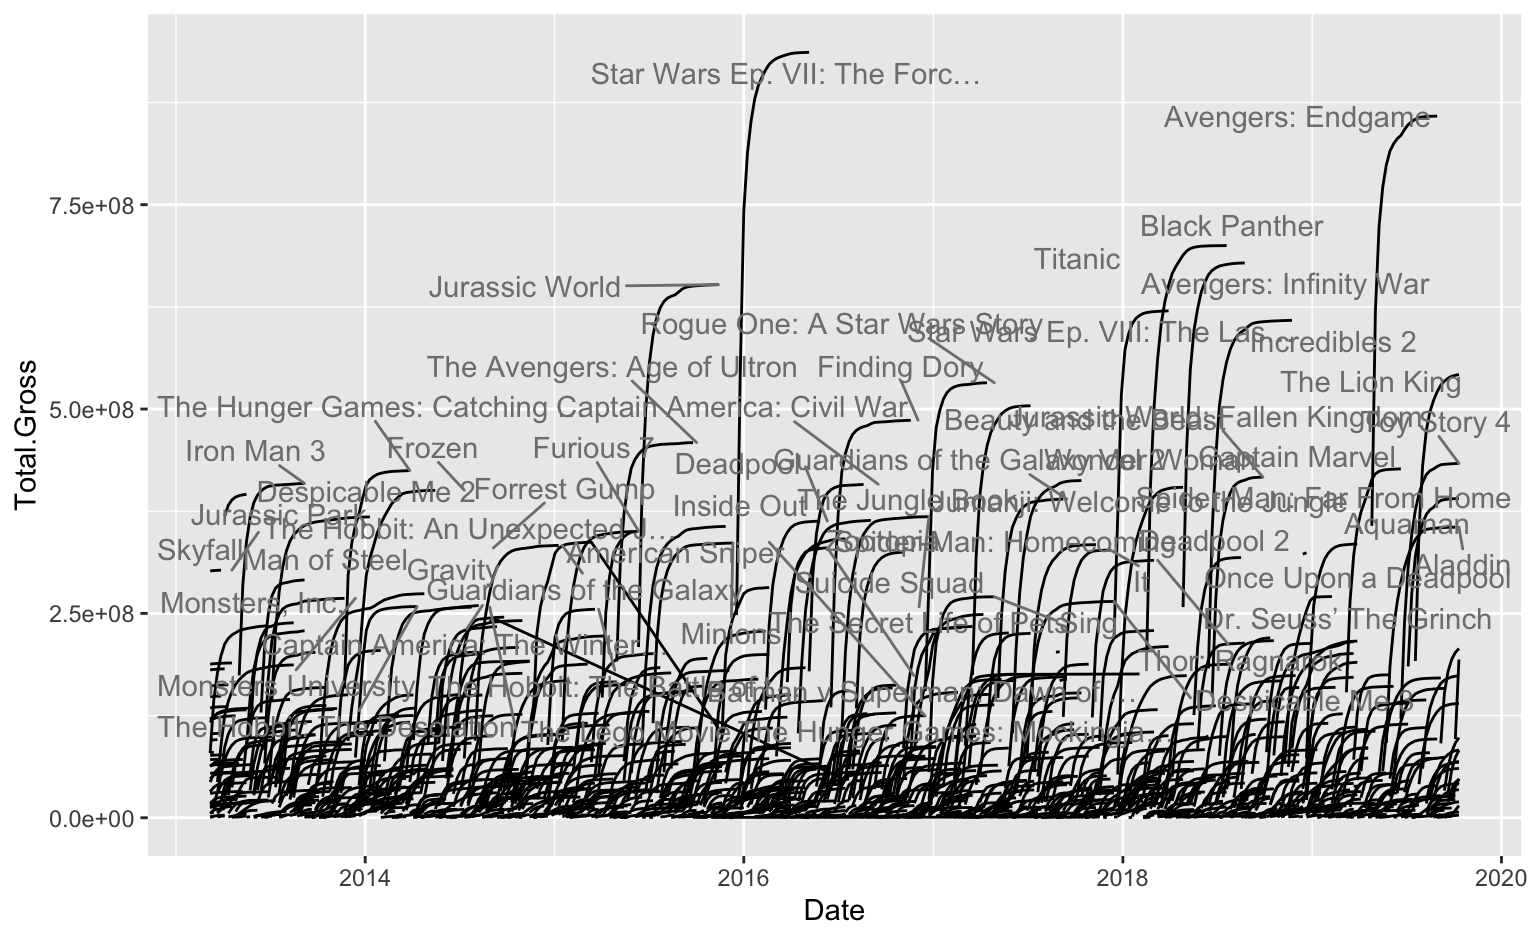
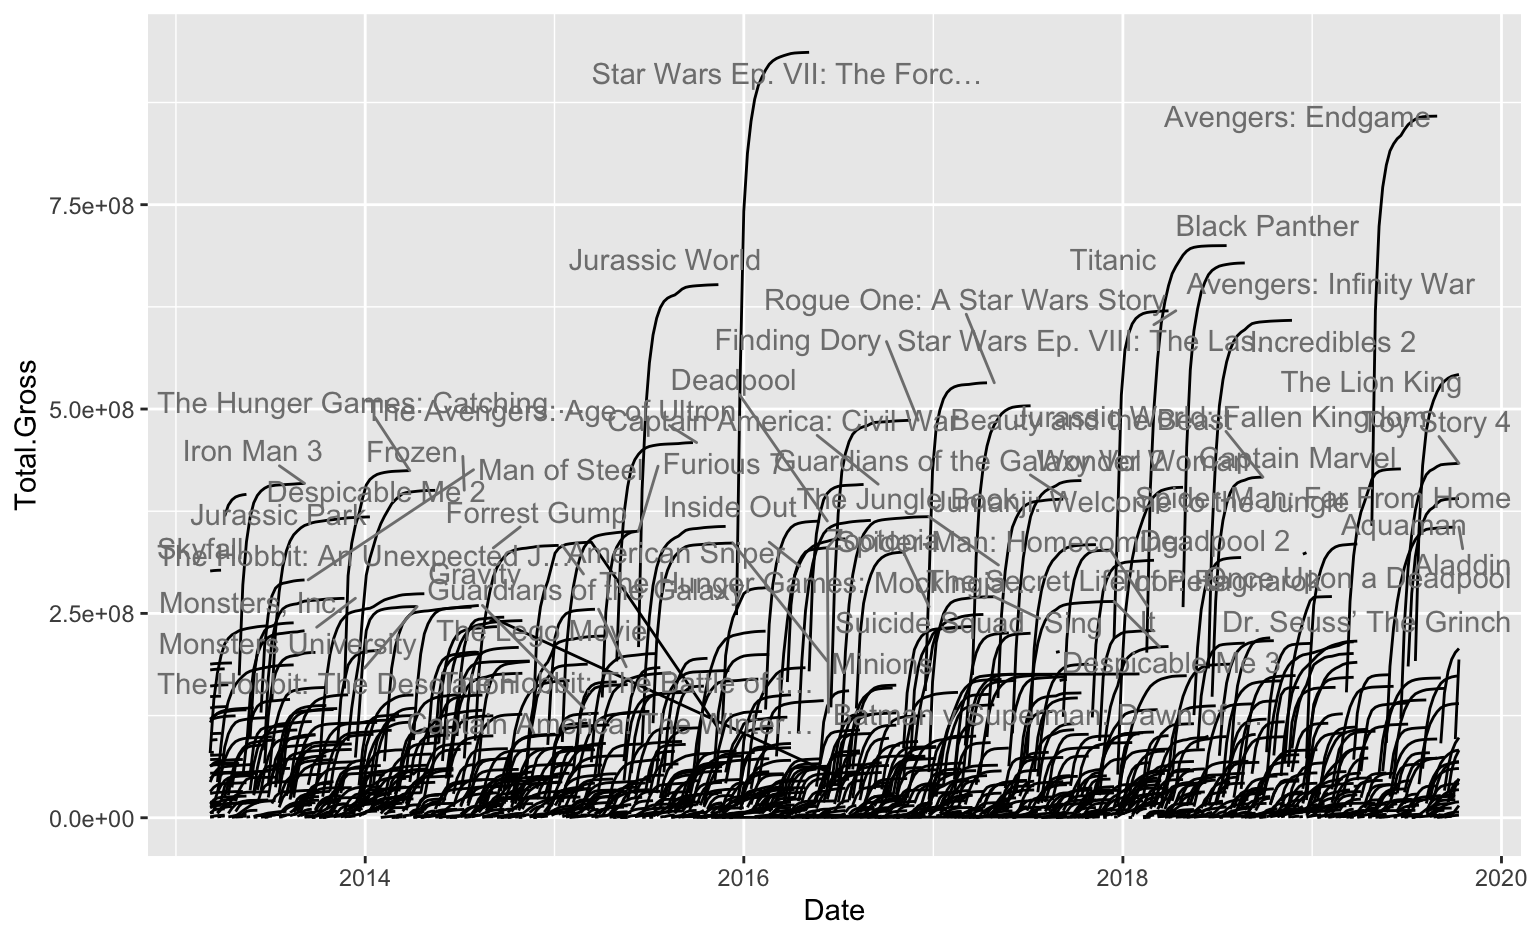
update

diff --git a/04_date-time-space/02_time-series.html b/04_date-time-space/02_time-series.html
@@ -157,24 +157,15 @@
 <li><span style="color:white">Plot separate lines for each of the years, i.e. put <code>month</code> on the x-axis and <code>ozone</code> on the y-axis for the same location. Is there a seasonal pattern apparent? </span></li>
 <li><span style="color:white">Pick a location with x in 1:10 and y in 7:10. Plot temperature over time. Comment on the result. </span></li>
 </ul>
-<div class="sourceCode" id="cb6"><pre class="sourceCode r"><code class="sourceCode r"><a class="sourceLine" id="cb6-1" data-line-number="1">nasa <span class="op">%&gt;%</span><span class="st"> </span><span class="kw">filter</span>(x <span class="op">==</span><span class="st"> </span><span class="dv">1</span>, y <span class="op">%in%</span><span class="st"> </span><span class="kw">c</span>(<span class="dv">1</span>, <span class="dv">10</span>)) <span class="op">%&gt;%</span></a>
-<a class="sourceLine" id="cb6-2" data-line-number="2"><span class="st">  </span><span class="kw">ggplot</span>(<span class="kw">aes</span>(<span class="dt">x =</span> time, <span class="dt">y =</span> ozone, <span class="dt">group =</span> id, <span class="dt">color =</span> id)) <span class="op">+</span><span class="st"> </span><span class="kw">geom_line</span>()</a></code></pre></div>
-<p><img src="02_time-series_files/figure-revealjs/unnamed-chunk-5-1.png" width="768" /></p>
-<div class="sourceCode" id="cb7"><pre class="sourceCode r"><code class="sourceCode r"><a class="sourceLine" id="cb7-1" data-line-number="1">nasa <span class="op">%&gt;%</span><span class="st"> </span><span class="kw">filter</span>(x <span class="op">==</span><span class="st"> </span><span class="dv">1</span>, y <span class="op">==</span><span class="st"> </span><span class="dv">1</span>) <span class="op">%&gt;%</span></a>
-<a class="sourceLine" id="cb7-2" data-line-number="2"><span class="st">  </span><span class="kw">ggplot</span>(<span class="kw">aes</span>(<span class="dt">x =</span> <span class="kw">month</span>(date, <span class="dt">label =</span> <span class="ot">TRUE</span>), <span class="dt">y =</span> ozone, <span class="dt">group =</span> <span class="kw">year</span>(date), <span class="dt">color =</span> <span class="kw">year</span>(date))) <span class="op">+</span><span class="st"> </span><span class="kw">geom_line</span>()</a></code></pre></div>
-<p><img src="02_time-series_files/figure-revealjs/unnamed-chunk-5-2.png" width="768" /></p>
-<div class="sourceCode" id="cb8"><pre class="sourceCode r"><code class="sourceCode r"><a class="sourceLine" id="cb8-1" data-line-number="1">nasa <span class="op">%&gt;%</span><span class="st"> </span><span class="kw">filter</span>(x <span class="op">%in%</span><span class="st"> </span><span class="kw">c</span>(<span class="dv">1</span> <span class="op">:</span><span class="st"> </span><span class="dv">10</span>), y <span class="op">%in%</span><span class="st"> </span><span class="kw">c</span>(<span class="dv">7</span> <span class="op">:</span><span class="st"> </span><span class="dv">10</span>)) <span class="op">%&gt;%</span></a>
-<a class="sourceLine" id="cb8-2" data-line-number="2"><span class="st">  </span><span class="kw">ggplot</span>(<span class="kw">aes</span>(<span class="dt">x =</span> time, <span class="dt">y =</span> temperature, <span class="dt">group =</span> id, <span class="dt">color =</span> id)) <span class="op">+</span><span class="st"> </span><span class="kw">geom_line</span>()</a></code></pre></div>
-<p><img src="02_time-series_files/figure-revealjs/unnamed-chunk-5-3.png" width="768" /></p>
 </section>
 <section id="box-office-gross" class="slide level2">
 <h2>Box office gross</h2>
 <ul>
 <li>variables encoded as dates and times work with <code>ggplot2</code></li>
 </ul>
-<div class="sourceCode" id="cb9"><pre class="sourceCode r"><code class="sourceCode r"><a class="sourceLine" id="cb9-1" data-line-number="1"><span class="kw">data</span>(box, <span class="dt">package=</span><span class="st">&quot;classdata&quot;</span>)</a>
-<a class="sourceLine" id="cb9-2" data-line-number="2">box <span class="op">%&gt;%</span><span class="st"> </span><span class="kw">filter</span>(Movie <span class="op">==</span><span class="st"> &quot;The Avengers: Age of Ultron&quot;</span>) <span class="op">%&gt;%</span></a>
-<a class="sourceLine" id="cb9-3" data-line-number="3"><span class="st">  </span><span class="kw">ggplot</span>(<span class="kw">aes</span>(<span class="dt">x =</span> Date, <span class="dt">y =</span> Total.Gross)) <span class="op">+</span><span class="st"> </span><span class="kw">geom_line</span>()</a></code></pre></div>
+<div class="sourceCode" id="cb6"><pre class="sourceCode r"><code class="sourceCode r"><a class="sourceLine" id="cb6-1" data-line-number="1"><span class="kw">data</span>(box, <span class="dt">package=</span><span class="st">&quot;classdata&quot;</span>)</a>
+<a class="sourceLine" id="cb6-2" data-line-number="2">box <span class="op">%&gt;%</span><span class="st"> </span><span class="kw">filter</span>(Movie <span class="op">==</span><span class="st"> &quot;The Avengers: Age of Ultron&quot;</span>) <span class="op">%&gt;%</span></a>
+<a class="sourceLine" id="cb6-3" data-line-number="3"><span class="st">  </span><span class="kw">ggplot</span>(<span class="kw">aes</span>(<span class="dt">x =</span> Date, <span class="dt">y =</span> Total.Gross)) <span class="op">+</span><span class="st"> </span><span class="kw">geom_line</span>()</a></code></pre></div>
 </section>
 <section id="box-office-gross-1" class="slide level2">
 <h2>Box office gross</h2>
@@ -193,9 +184,9 @@
 <ul>
 <li>We would like to label some of the highest grossing movies</li>
 </ul>
-<div class="sourceCode" id="cb10"><pre class="sourceCode r"><code class="sourceCode r"><a class="sourceLine" id="cb10-1" data-line-number="1">box <span class="op">%&gt;%</span><span class="st"> </span><span class="kw">filter</span>(Thtrs. <span class="op">&gt;</span><span class="st"> </span><span class="dv">100</span>) <span class="op">%&gt;%</span></a>
-<a class="sourceLine" id="cb10-2" data-line-number="2"><span class="st">  </span><span class="kw">ggplot</span>(<span class="kw">aes</span>(<span class="dt">x =</span> Date, <span class="dt">y =</span> <span class="kw">log</span>(Total.Gross), </a>
-<a class="sourceLine" id="cb10-3" data-line-number="3">             <span class="dt">group =</span> <span class="kw">interaction</span>(Movie, Distributor))) <span class="op">+</span><span class="st"> </span><span class="kw">geom_line</span>()</a></code></pre></div>
+<div class="sourceCode" id="cb7"><pre class="sourceCode r"><code class="sourceCode r"><a class="sourceLine" id="cb7-1" data-line-number="1">box <span class="op">%&gt;%</span><span class="st"> </span><span class="kw">filter</span>(Thtrs. <span class="op">&gt;</span><span class="st"> </span><span class="dv">100</span>) <span class="op">%&gt;%</span></a>
+<a class="sourceLine" id="cb7-2" data-line-number="2"><span class="st">  </span><span class="kw">ggplot</span>(<span class="kw">aes</span>(<span class="dt">x =</span> Date, <span class="dt">y =</span> <span class="kw">log</span>(Total.Gross), </a>
+<a class="sourceLine" id="cb7-3" data-line-number="3">             <span class="dt">group =</span> <span class="kw">interaction</span>(Movie, Distributor))) <span class="op">+</span><span class="st"> </span><span class="kw">geom_line</span>()</a></code></pre></div>
 </section>
 <section id="box-office-gross-2-1" class="slide level2">
 <h2>Box office gross (2)</h2>
@@ -206,19 +197,19 @@
 <ul>
 <li><code>geom_text</code> needs aesthetics <code>x</code>, <code>y</code> and <code>label</code></li>
 </ul>
-<div class="sourceCode" id="cb11"><pre class="sourceCode r"><code class="sourceCode r"><a class="sourceLine" id="cb11-1" data-line-number="1">box_summary &lt;-<span class="st"> </span>box <span class="op">%&gt;%</span><span class="st"> </span><span class="kw">group_by</span>(Movie, Distributor) <span class="op">%&gt;%</span></a>
-<a class="sourceLine" id="cb11-2" data-line-number="2"><span class="st">  </span><span class="kw">summarize</span>(</a>
-<a class="sourceLine" id="cb11-3" data-line-number="3">    <span class="dt">Date =</span> <span class="kw">max</span>(Date),</a>
-<a class="sourceLine" id="cb11-4" data-line-number="4">    <span class="dt">Week =</span> <span class="kw">max</span>(Week),</a>
-<a class="sourceLine" id="cb11-5" data-line-number="5">    <span class="dt">Max.Gross =</span> <span class="kw">max</span>(Total.Gross, <span class="dt">na.rm=</span><span class="ot">TRUE</span>),</a>
-<a class="sourceLine" id="cb11-6" data-line-number="6">    <span class="dt">First.Gross =</span> <span class="kw">min</span>(Total.Gross, <span class="dt">na.rm=</span><span class="ot">TRUE</span>)</a>
-<a class="sourceLine" id="cb11-7" data-line-number="7">  )</a>
-<a class="sourceLine" id="cb11-8" data-line-number="8"></a>
-<a class="sourceLine" id="cb11-9" data-line-number="9">box <span class="op">%&gt;%</span><span class="st"> </span><span class="kw">filter</span>(Thtrs. <span class="op">&gt;</span><span class="st"> </span><span class="dv">100</span>) <span class="op">%&gt;%</span></a>
-<a class="sourceLine" id="cb11-10" data-line-number="10"><span class="st">  </span><span class="kw">ggplot</span>(<span class="kw">aes</span>(<span class="dt">x =</span> Date, <span class="dt">y =</span> Total.Gross, </a>
-<a class="sourceLine" id="cb11-11" data-line-number="11">             <span class="dt">group =</span> <span class="kw">interaction</span>(Movie, Distributor))) <span class="op">+</span><span class="st"> </span><span class="kw">geom_line</span>() <span class="op">+</span></a>
-<a class="sourceLine" id="cb11-12" data-line-number="12"><span class="st">  </span><span class="kw">geom_text</span>(<span class="kw">aes</span>(<span class="dt">x =</span> Date, <span class="dt">y =</span> Max.Gross, <span class="dt">label =</span> Movie), </a>
-<a class="sourceLine" id="cb11-13" data-line-number="13">            <span class="dt">data =</span> box_summary <span class="op">%&gt;%</span><span class="st"> </span><span class="kw">filter</span>(Max.Gross <span class="op">&gt;</span><span class="st"> </span><span class="fl">2.5e8</span>))</a></code></pre></div>
+<div class="sourceCode" id="cb8"><pre class="sourceCode r"><code class="sourceCode r"><a class="sourceLine" id="cb8-1" data-line-number="1">box_summary &lt;-<span class="st"> </span>box <span class="op">%&gt;%</span><span class="st"> </span><span class="kw">group_by</span>(Movie, Distributor) <span class="op">%&gt;%</span></a>
+<a class="sourceLine" id="cb8-2" data-line-number="2"><span class="st">  </span><span class="kw">summarize</span>(</a>
+<a class="sourceLine" id="cb8-3" data-line-number="3">    <span class="dt">Date =</span> <span class="kw">max</span>(Date),</a>
+<a class="sourceLine" id="cb8-4" data-line-number="4">    <span class="dt">Week =</span> <span class="kw">max</span>(Week),</a>
+<a class="sourceLine" id="cb8-5" data-line-number="5">    <span class="dt">Max.Gross =</span> <span class="kw">max</span>(Total.Gross, <span class="dt">na.rm=</span><span class="ot">TRUE</span>),</a>
+<a class="sourceLine" id="cb8-6" data-line-number="6">    <span class="dt">First.Gross =</span> <span class="kw">min</span>(Total.Gross, <span class="dt">na.rm=</span><span class="ot">TRUE</span>)</a>
+<a class="sourceLine" id="cb8-7" data-line-number="7">  )</a>
+<a class="sourceLine" id="cb8-8" data-line-number="8"></a>
+<a class="sourceLine" id="cb8-9" data-line-number="9">box <span class="op">%&gt;%</span><span class="st"> </span><span class="kw">filter</span>(Thtrs. <span class="op">&gt;</span><span class="st"> </span><span class="dv">100</span>) <span class="op">%&gt;%</span></a>
+<a class="sourceLine" id="cb8-10" data-line-number="10"><span class="st">  </span><span class="kw">ggplot</span>(<span class="kw">aes</span>(<span class="dt">x =</span> Date, <span class="dt">y =</span> Total.Gross, </a>
+<a class="sourceLine" id="cb8-11" data-line-number="11">             <span class="dt">group =</span> <span class="kw">interaction</span>(Movie, Distributor))) <span class="op">+</span><span class="st"> </span><span class="kw">geom_line</span>() <span class="op">+</span></a>
+<a class="sourceLine" id="cb8-12" data-line-number="12"><span class="st">  </span><span class="kw">geom_text</span>(<span class="kw">aes</span>(<span class="dt">x =</span> Date, <span class="dt">y =</span> Max.Gross, <span class="dt">label =</span> Movie), </a>
+<a class="sourceLine" id="cb8-13" data-line-number="13">            <span class="dt">data =</span> box_summary <span class="op">%&gt;%</span><span class="st"> </span><span class="kw">filter</span>(Max.Gross <span class="op">&gt;</span><span class="st"> </span><span class="fl">2.5e8</span>))</a></code></pre></div>
 </section>
 <section id="labelling-1" class="slide level2">
 <h2>Labelling</h2>
@@ -229,11 +220,11 @@
 <ul>
 <li><code>geom_text_repel</code> from the <code>ggrepel</code> package</li>
 </ul>
-<div class="sourceCode" id="cb12"><pre class="sourceCode r"><code class="sourceCode r"><a class="sourceLine" id="cb12-1" data-line-number="1">box <span class="op">%&gt;%</span><span class="st"> </span><span class="kw">filter</span>(Thtrs. <span class="op">&gt;</span><span class="st"> </span><span class="dv">100</span>) <span class="op">%&gt;%</span></a>
-<a class="sourceLine" id="cb12-2" data-line-number="2"><span class="st">  </span><span class="kw">ggplot</span>(<span class="kw">aes</span>(<span class="dt">x =</span> Date, <span class="dt">y =</span> Total.Gross, </a>
-<a class="sourceLine" id="cb12-3" data-line-number="3">             <span class="dt">group =</span> <span class="kw">interaction</span>(Movie, Distributor))) <span class="op">+</span><span class="st"> </span><span class="kw">geom_line</span>() <span class="op">+</span></a>
-<a class="sourceLine" id="cb12-4" data-line-number="4"><span class="st">  </span>ggrepel<span class="op">::</span><span class="kw">geom_text_repel</span>(<span class="kw">aes</span>(<span class="dt">x =</span> Date, <span class="dt">y =</span> Max.Gross, <span class="dt">label =</span> Movie), </a>
-<a class="sourceLine" id="cb12-5" data-line-number="5">            <span class="dt">data =</span> box_summary <span class="op">%&gt;%</span><span class="st"> </span><span class="kw">filter</span>(Max.Gross <span class="op">&gt;</span><span class="st"> </span><span class="fl">2.5e8</span>), <span class="dt">colour=</span><span class="st">&quot;grey50&quot;</span>)</a></code></pre></div>
+<div class="sourceCode" id="cb9"><pre class="sourceCode r"><code class="sourceCode r"><a class="sourceLine" id="cb9-1" data-line-number="1">box <span class="op">%&gt;%</span><span class="st"> </span><span class="kw">filter</span>(Thtrs. <span class="op">&gt;</span><span class="st"> </span><span class="dv">100</span>) <span class="op">%&gt;%</span></a>
+<a class="sourceLine" id="cb9-2" data-line-number="2"><span class="st">  </span><span class="kw">ggplot</span>(<span class="kw">aes</span>(<span class="dt">x =</span> Date, <span class="dt">y =</span> Total.Gross, </a>
+<a class="sourceLine" id="cb9-3" data-line-number="3">             <span class="dt">group =</span> <span class="kw">interaction</span>(Movie, Distributor))) <span class="op">+</span><span class="st"> </span><span class="kw">geom_line</span>() <span class="op">+</span></a>
+<a class="sourceLine" id="cb9-4" data-line-number="4"><span class="st">  </span>ggrepel<span class="op">::</span><span class="kw">geom_text_repel</span>(<span class="kw">aes</span>(<span class="dt">x =</span> Date, <span class="dt">y =</span> Max.Gross, <span class="dt">label =</span> Movie), </a>
+<a class="sourceLine" id="cb9-5" data-line-number="5">            <span class="dt">data =</span> box_summary <span class="op">%&gt;%</span><span class="st"> </span><span class="kw">filter</span>(Max.Gross <span class="op">&gt;</span><span class="st"> </span><span class="fl">2.5e8</span>), <span class="dt">colour=</span><span class="st">&quot;grey50&quot;</span>)</a></code></pre></div>
 </section>
 <section id="labelling---less-overlap-1" class="slide level2">
 <h2>Labelling - less overlap</h2>
